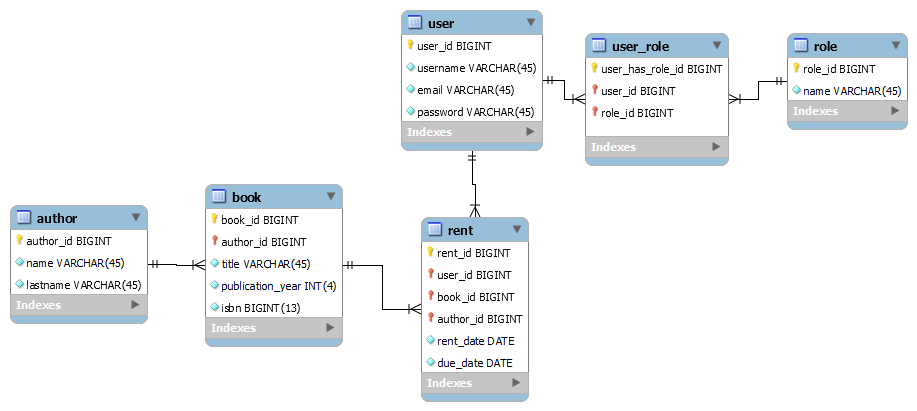
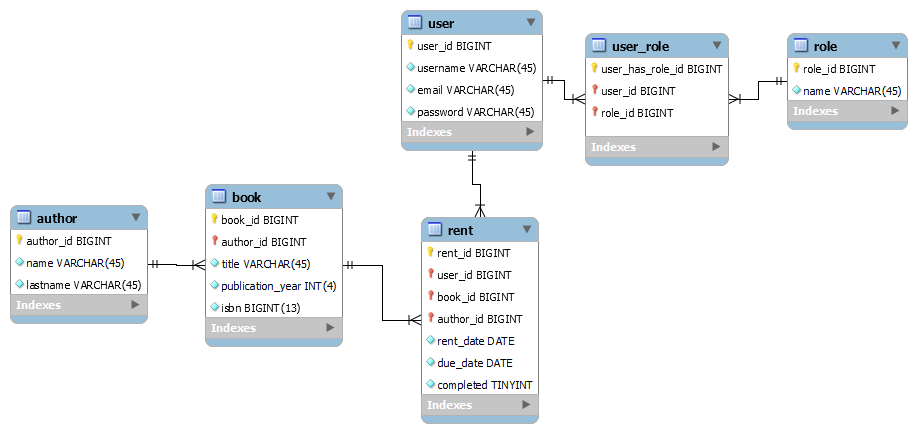
Changes with rent -added completed flag

diff --git a/src/main/java/com/library/model/Rent.java b/src/main/java/com/library/model/Rent.java
@@ -24,6 +24,9 @@ public class Rent {
     @ManyToOne
     @JoinColumn(name = "book_id")
     private Book book;
+    @Column(name = "rent_date")
     private LocalDate rentDate;
+    @Column(name = "due_date")
     private LocalDate dueDate;
+    private boolean completed;
 }
